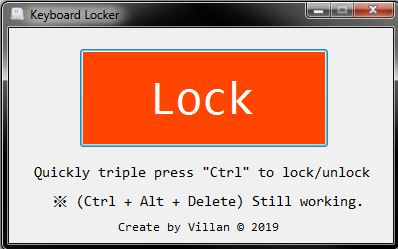
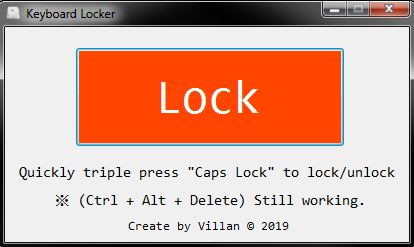
Update HotKey to "Caps Lock"

diff --git a/Project/Keyboard Locker/Form1.Designer.cs b/Project/Keyboard Locker/Form1.Designer.cs
@@ -37,7 +37,7 @@
             this.MainButton.Font = new System.Drawing.Font("Consolas", 36F, System.Drawing.FontStyle.Regular, System.Drawing.GraphicsUnit.Point, ((byte)(0)));
             this.MainButton.Location = new System.Drawing.Point(70, 20);
             this.MainButton.Name = "MainButton";
-            this.MainButton.Size = new System.Drawing.Size(250, 100);
+            this.MainButton.Size = new System.Drawing.Size(270, 100);
             this.MainButton.TabIndex = 0;
             this.MainButton.Text = "Lock";
             this.MainButton.UseVisualStyleBackColor = true;
@@ -48,7 +48,7 @@
             this.WarningLabel.AutoSize = true;
             this.WarningLabel.Font = new System.Drawing.Font("Consolas", 11.25F, System.Drawing.FontStyle.Regular, System.Drawing.GraphicsUnit.Point, ((byte)(0)));
             this.WarningLabel.ForeColor = System.Drawing.SystemColors.ControlText;
-            this.WarningLabel.Location = new System.Drawing.Point(40, 164);
+            this.WarningLabel.Location = new System.Drawing.Point(46, 164);
             this.WarningLabel.Name = "WarningLabel";
             this.WarningLabel.Size = new System.Drawing.Size(320, 18);
             this.WarningLabel.TabIndex = 1;
@@ -60,7 +60,7 @@
             this.LicenseLabel.AutoSize = true;
             this.LicenseLabel.Font = new System.Drawing.Font("Consolas", 9F, System.Drawing.FontStyle.Regular, System.Drawing.GraphicsUnit.Point, ((byte)(0)));
             this.LicenseLabel.ForeColor = System.Drawing.SystemColors.ControlText;
-            this.LicenseLabel.Location = new System.Drawing.Point(106, 192);
+            this.LicenseLabel.Location = new System.Drawing.Point(120, 192);
             this.LicenseLabel.Name = "LicenseLabel";
             this.LicenseLabel.Size = new System.Drawing.Size(168, 14);
             this.LicenseLabel.TabIndex = 2;
@@ -111,11 +111,11 @@
             this.TipLabel.AutoSize = true;
             this.TipLabel.Font = new System.Drawing.Font("Consolas", 11.25F, System.Drawing.FontStyle.Regular, System.Drawing.GraphicsUnit.Point, ((byte)(0)));
             this.TipLabel.ForeColor = System.Drawing.SystemColors.ControlText;
-            this.TipLabel.Location = new System.Drawing.Point(22, 135);
+            this.TipLabel.Location = new System.Drawing.Point(11, 136);
             this.TipLabel.Name = "TipLabel";
-            this.TipLabel.Size = new System.Drawing.Size(344, 18);
+            this.TipLabel.Size = new System.Drawing.Size(384, 18);
             this.TipLabel.TabIndex = 3;
-            this.TipLabel.Text = "Quickly triple press \"Ctrl\" to lock/unlock";
+            this.TipLabel.Text = "Quickly triple press \"Caps Lock\" to lock/unlock";
             this.TipLabel.TextAlign = System.Drawing.ContentAlignment.MiddleCenter;
             // 
             // Form1
@@ -123,7 +123,7 @@
             this.AutoScaleDimensions = new System.Drawing.SizeF(7F, 14F);
             this.AutoScaleMode = System.Windows.Forms.AutoScaleMode.Font;
             this.BackColor = System.Drawing.SystemColors.Menu;
-            this.ClientSize = new System.Drawing.Size(384, 215);
+            this.ClientSize = new System.Drawing.Size(404, 215);
             this.Controls.Add(this.TipLabel);
             this.Controls.Add(this.LicenseLabel);
             this.Controls.Add(this.WarningLabel);

diff --git a/Project/Keyboard Locker/Form1.cs b/Project/Keyboard Locker/Form1.cs
@@ -37,7 +37,7 @@ namespace Keyboard_Locker
         private static readonly string StateMsgString = "Keyboard now is 「{0}」";
         private static readonly string BackgroundMsgString = "Background running.";
 
-        private static readonly List<int> ExceptionKeyCodeList = new List<int>{ 162, 163 };
+        private static readonly List<int> ExceptionKeyCodeList = new List<int>{ 20 };
         private static readonly int ExceptionKeyComboCount = 3;
         private static readonly int ExceptionKeyComboMilliseconds = 1000;
         private int m_CurrentExceptionKeyClickCount = 0;
